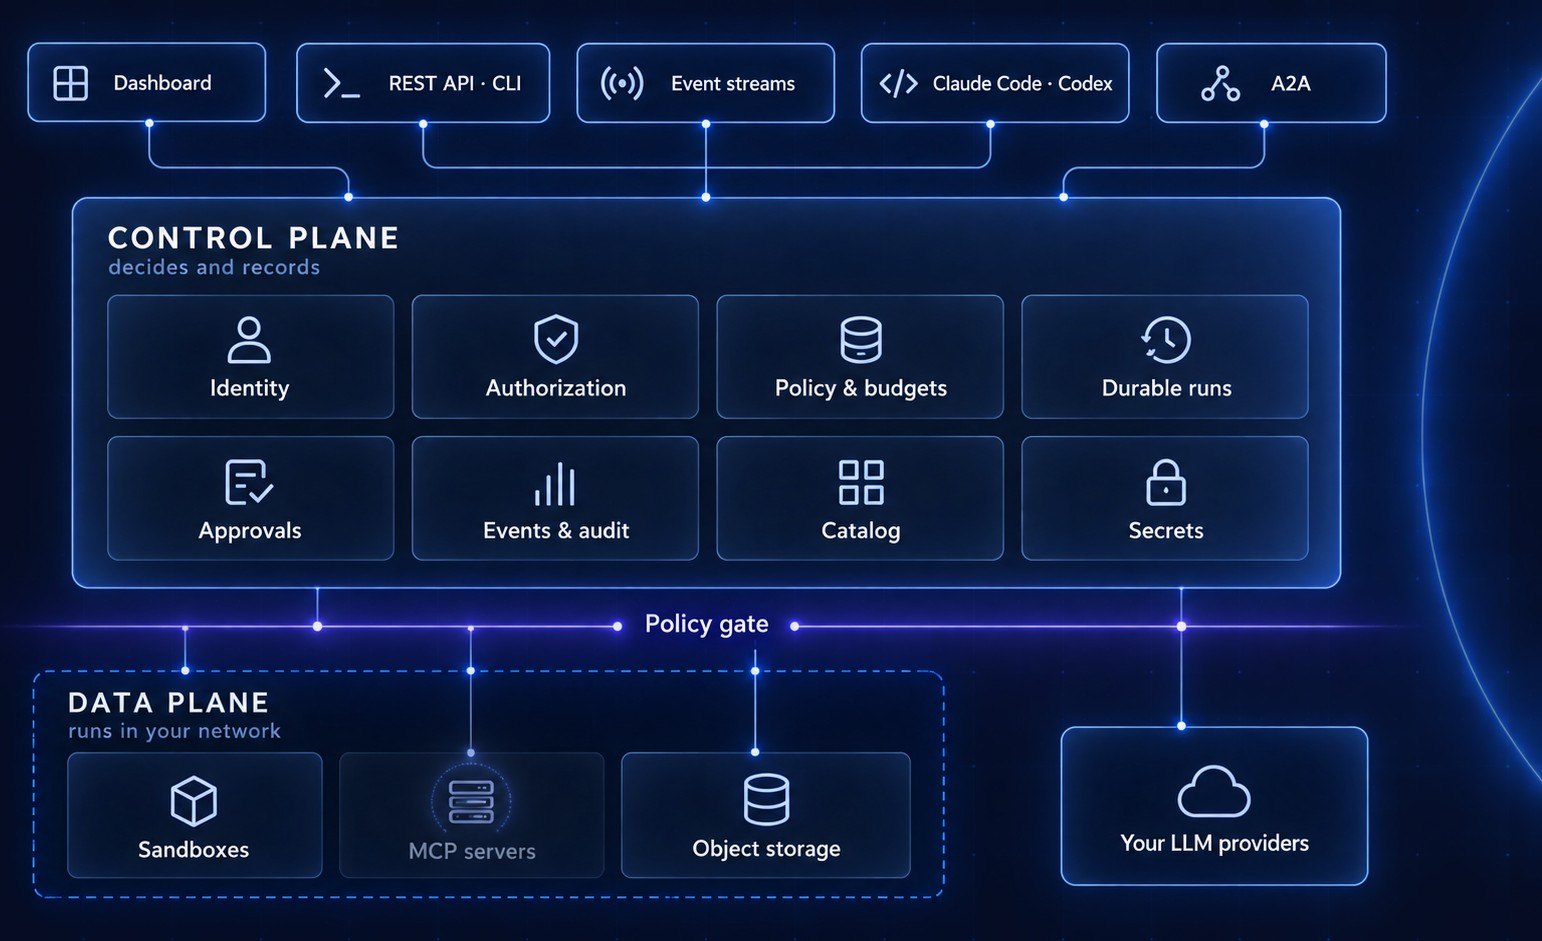
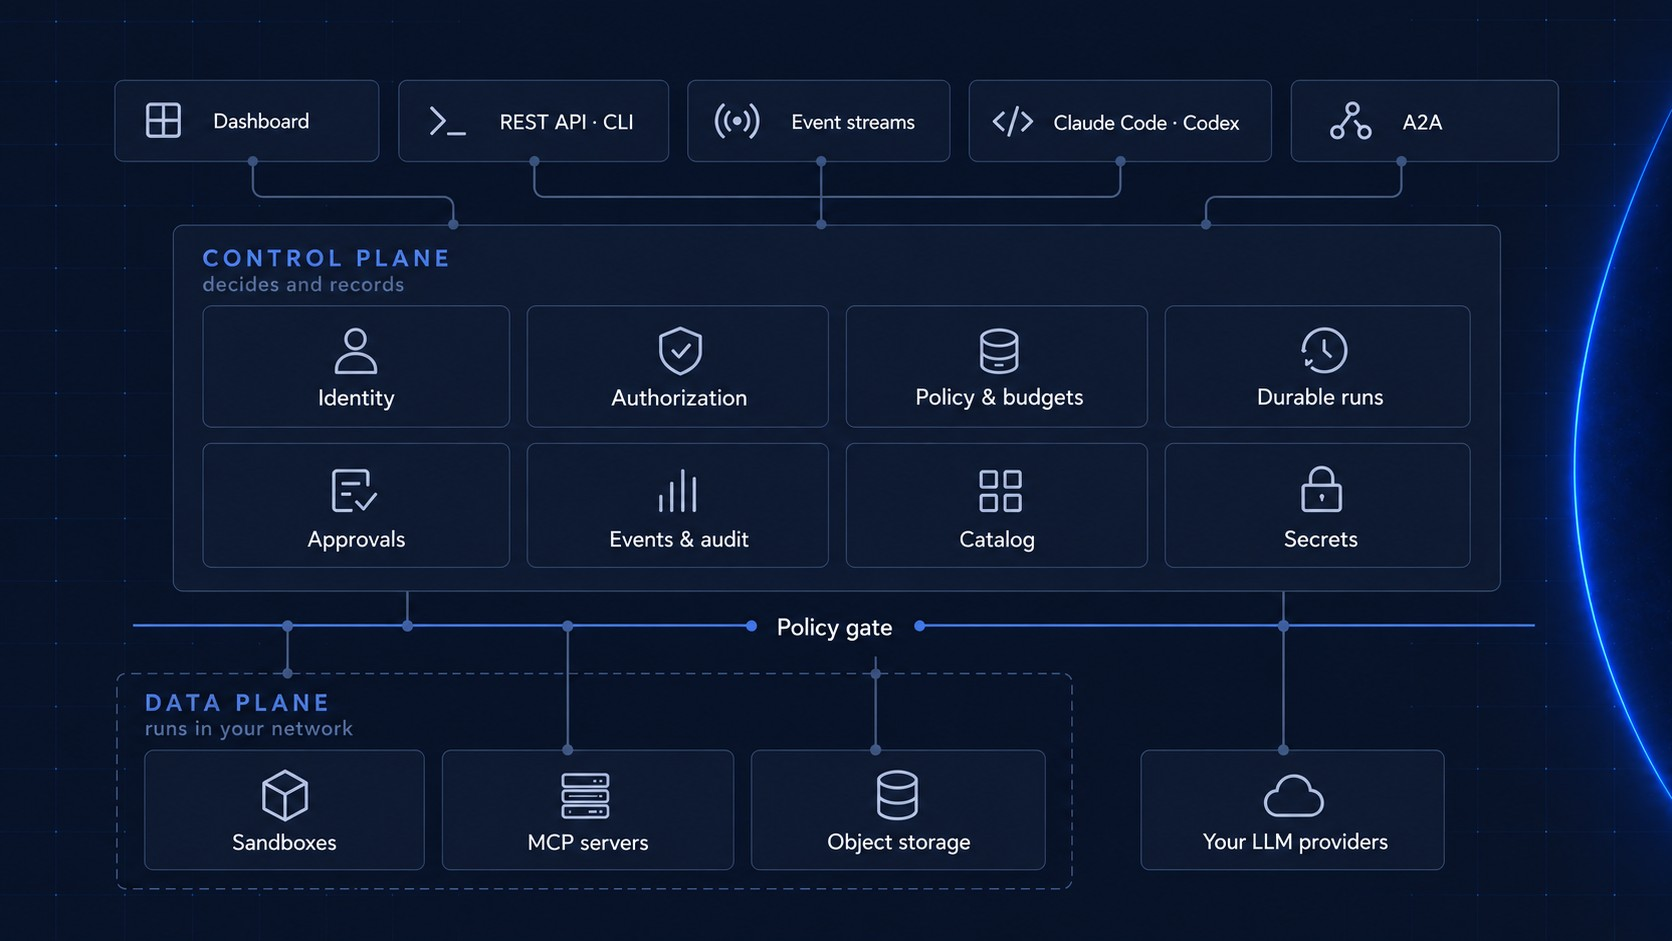
docs(readme): map the AgentArea runtime in What's inside, and redraw the README diagrams in the cover's calm style (#788)
* docs(readme): open What's inside with a map of the subsystems, their services and the implementations each one runs on

The README listed features but never showed what AgentArea is made of or where
its scope ends. The map shows the runtime interface and access layer on top,
eight subsystems with their services and interchangeable implementations,
Temporal at the foundation, and what is not AgentArea.

* docs(readme): redraw the four README diagrams in the cover's calm style

The diagrams glowed on every outline, while the cover keeps a single glowing arc
on flat navy. They now use the cover's background and grid, flat tiles with
hairline borders, and one blue accent on the policy gate, the platform stream
and section headers, as the product UI does.

* docs(readme): put the AgentArea runtime itself on the subsystems map, with real logos

The map showed the subsystems but not AgentArea: the foundation was Temporal,
which is one implementation, not the platform. The subsystems now sit inside
the AgentArea runtime panel with its four services (API, worker, MCP manager,
event service), Temporal moves under the agents subsystem as the durable-runs
implementation, and the base reads "Runs on Docker Compose, Kubernetes, Helm".
The "Not AgentArea" strip is gone.

The map is now rendered from HTML instead of generated, so every label is exact
and the implementations carry their real logos (simple-icons, CC0; lobehub
icons, MIT, for the model providers simple-icons no longer ships).

diff --git a/README.md b/README.md
@@ -151,6 +151,13 @@ see [Deploy](#deploy).
 
 ## What's inside
 
+AgentArea is a runtime of subsystems. Each subsystem is a set of services, and each
+service runs on the implementation you choose: bundled with the chart, or yours.
+
+<p align="center">
+  <img src="images/readme/subsystems.jpg" alt="The AgentArea runtime: its API, worker, MCP manager and event service, and eight subsystems (security, storage, compute, LLM, agents, tools, events, governance), each with its services and the implementations they run on, under the runtime interface and access layer, on Docker Compose, Kubernetes or Helm" width="100%">
+</p>
+
 <details open>
 <summary><b>Agents and the organization</b></summary>
 
